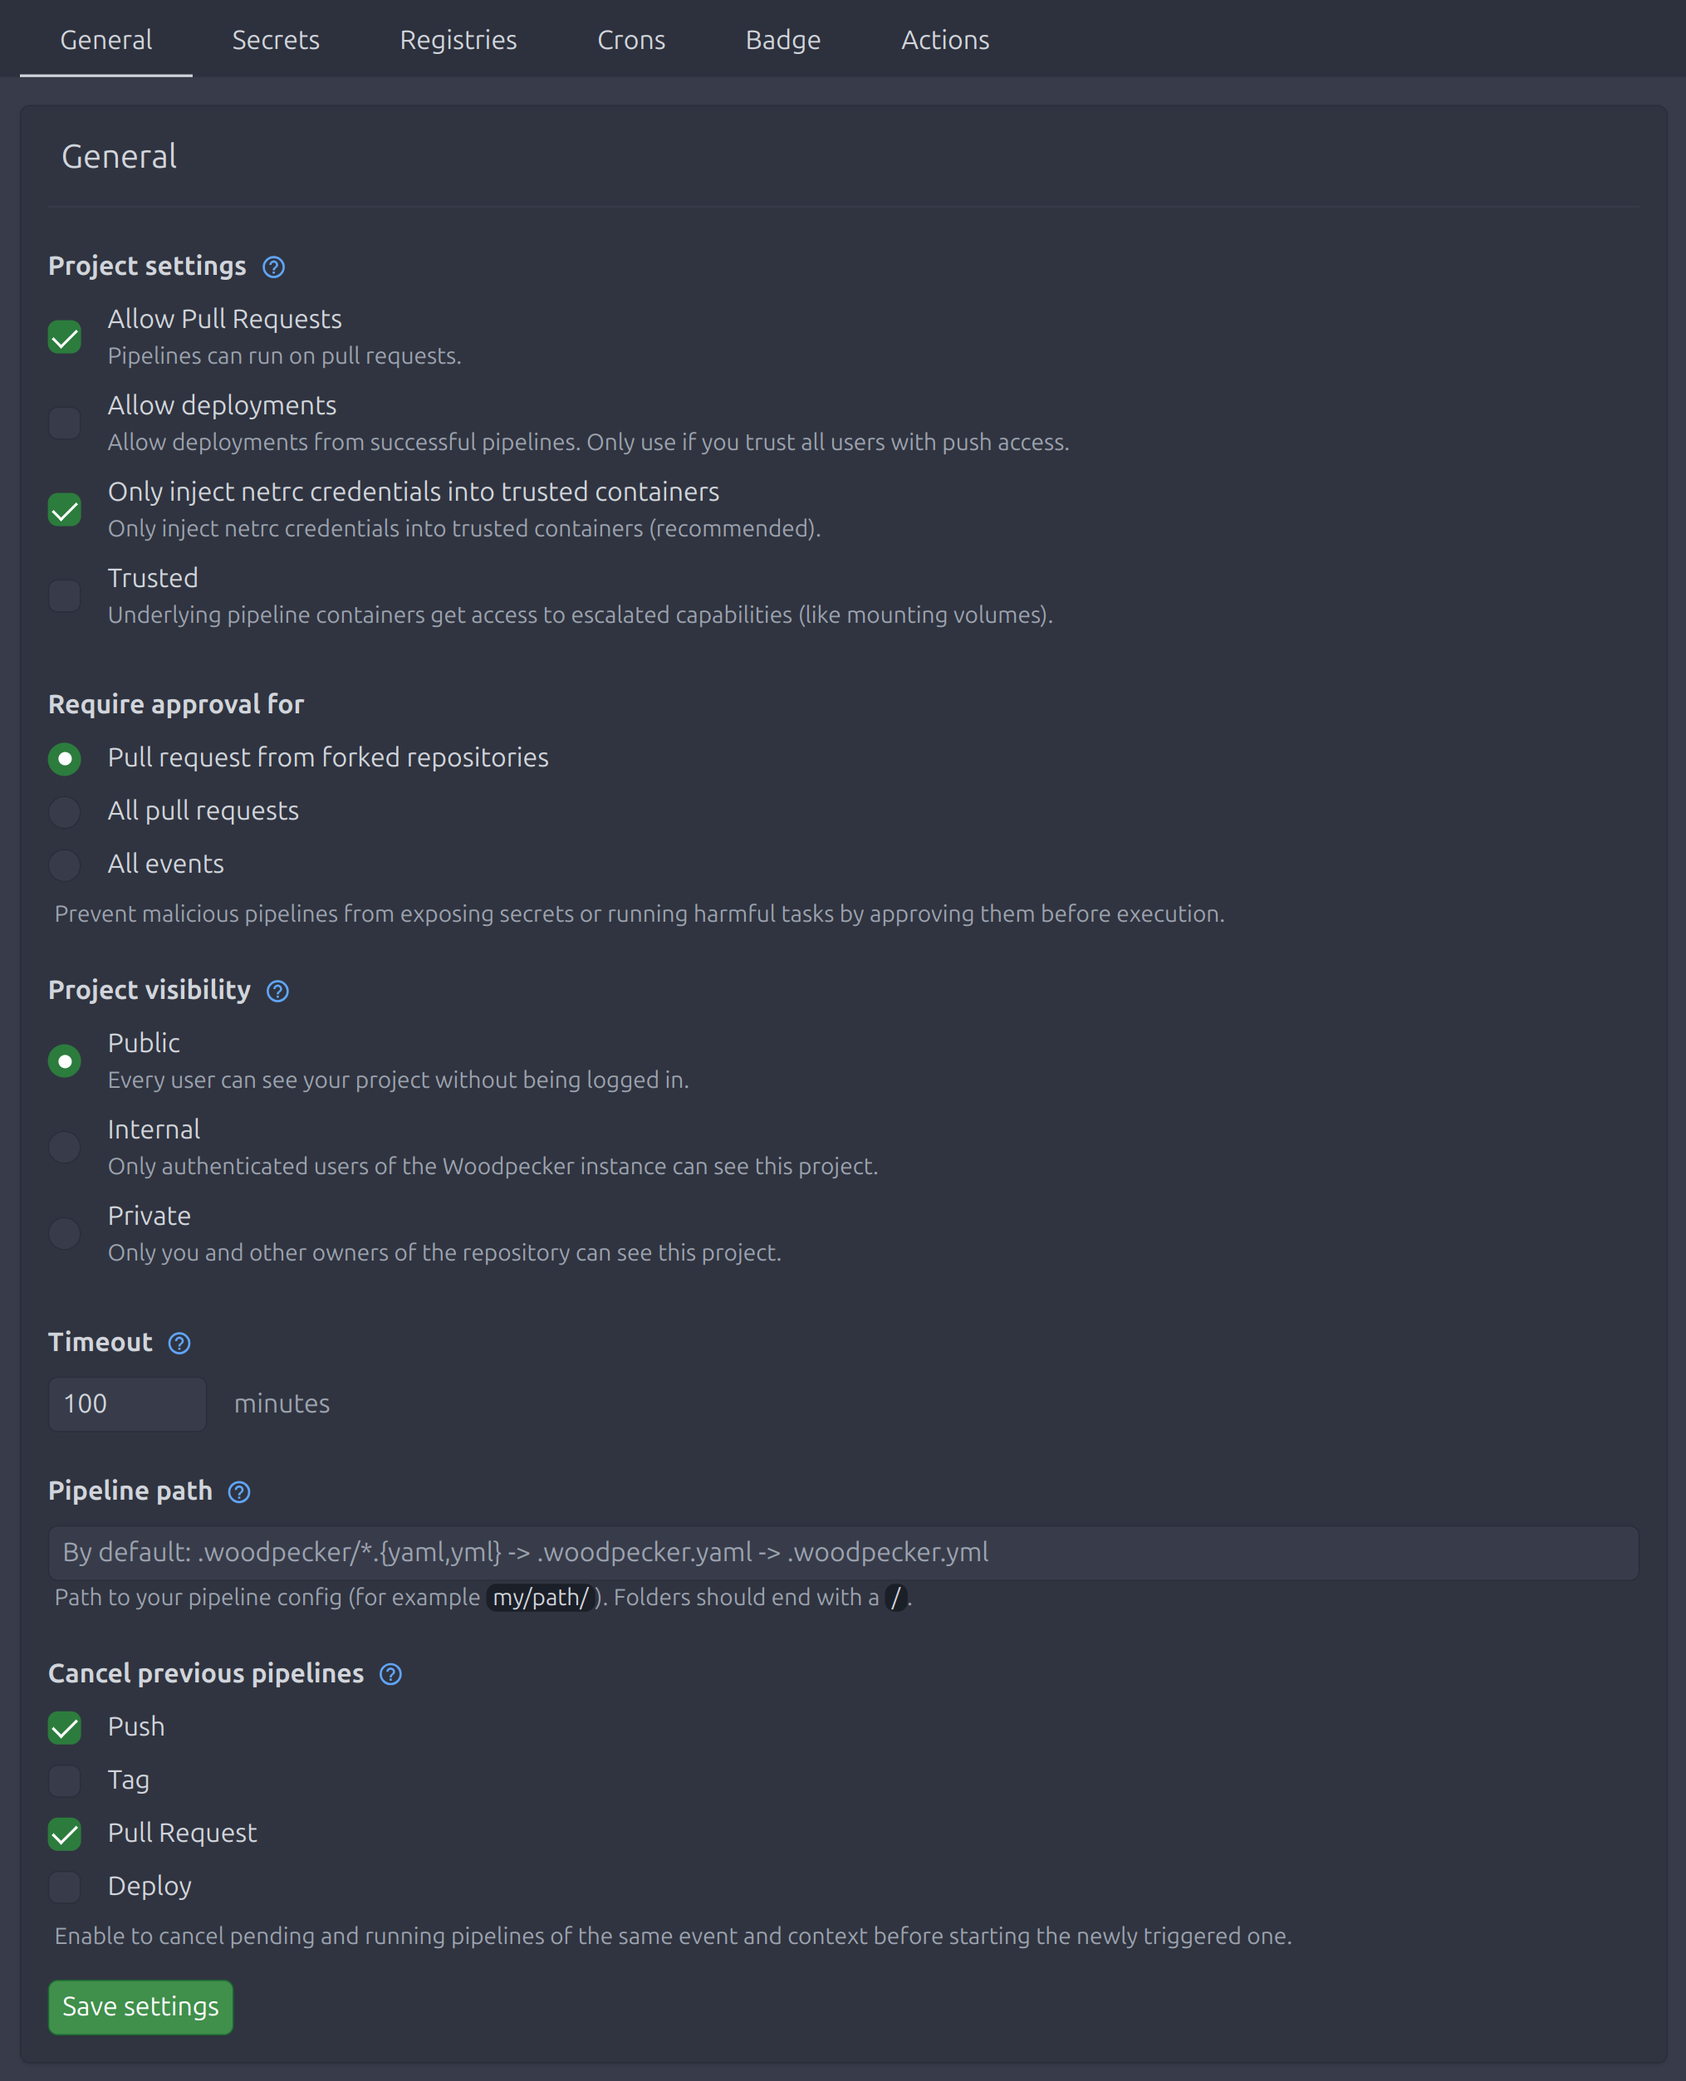
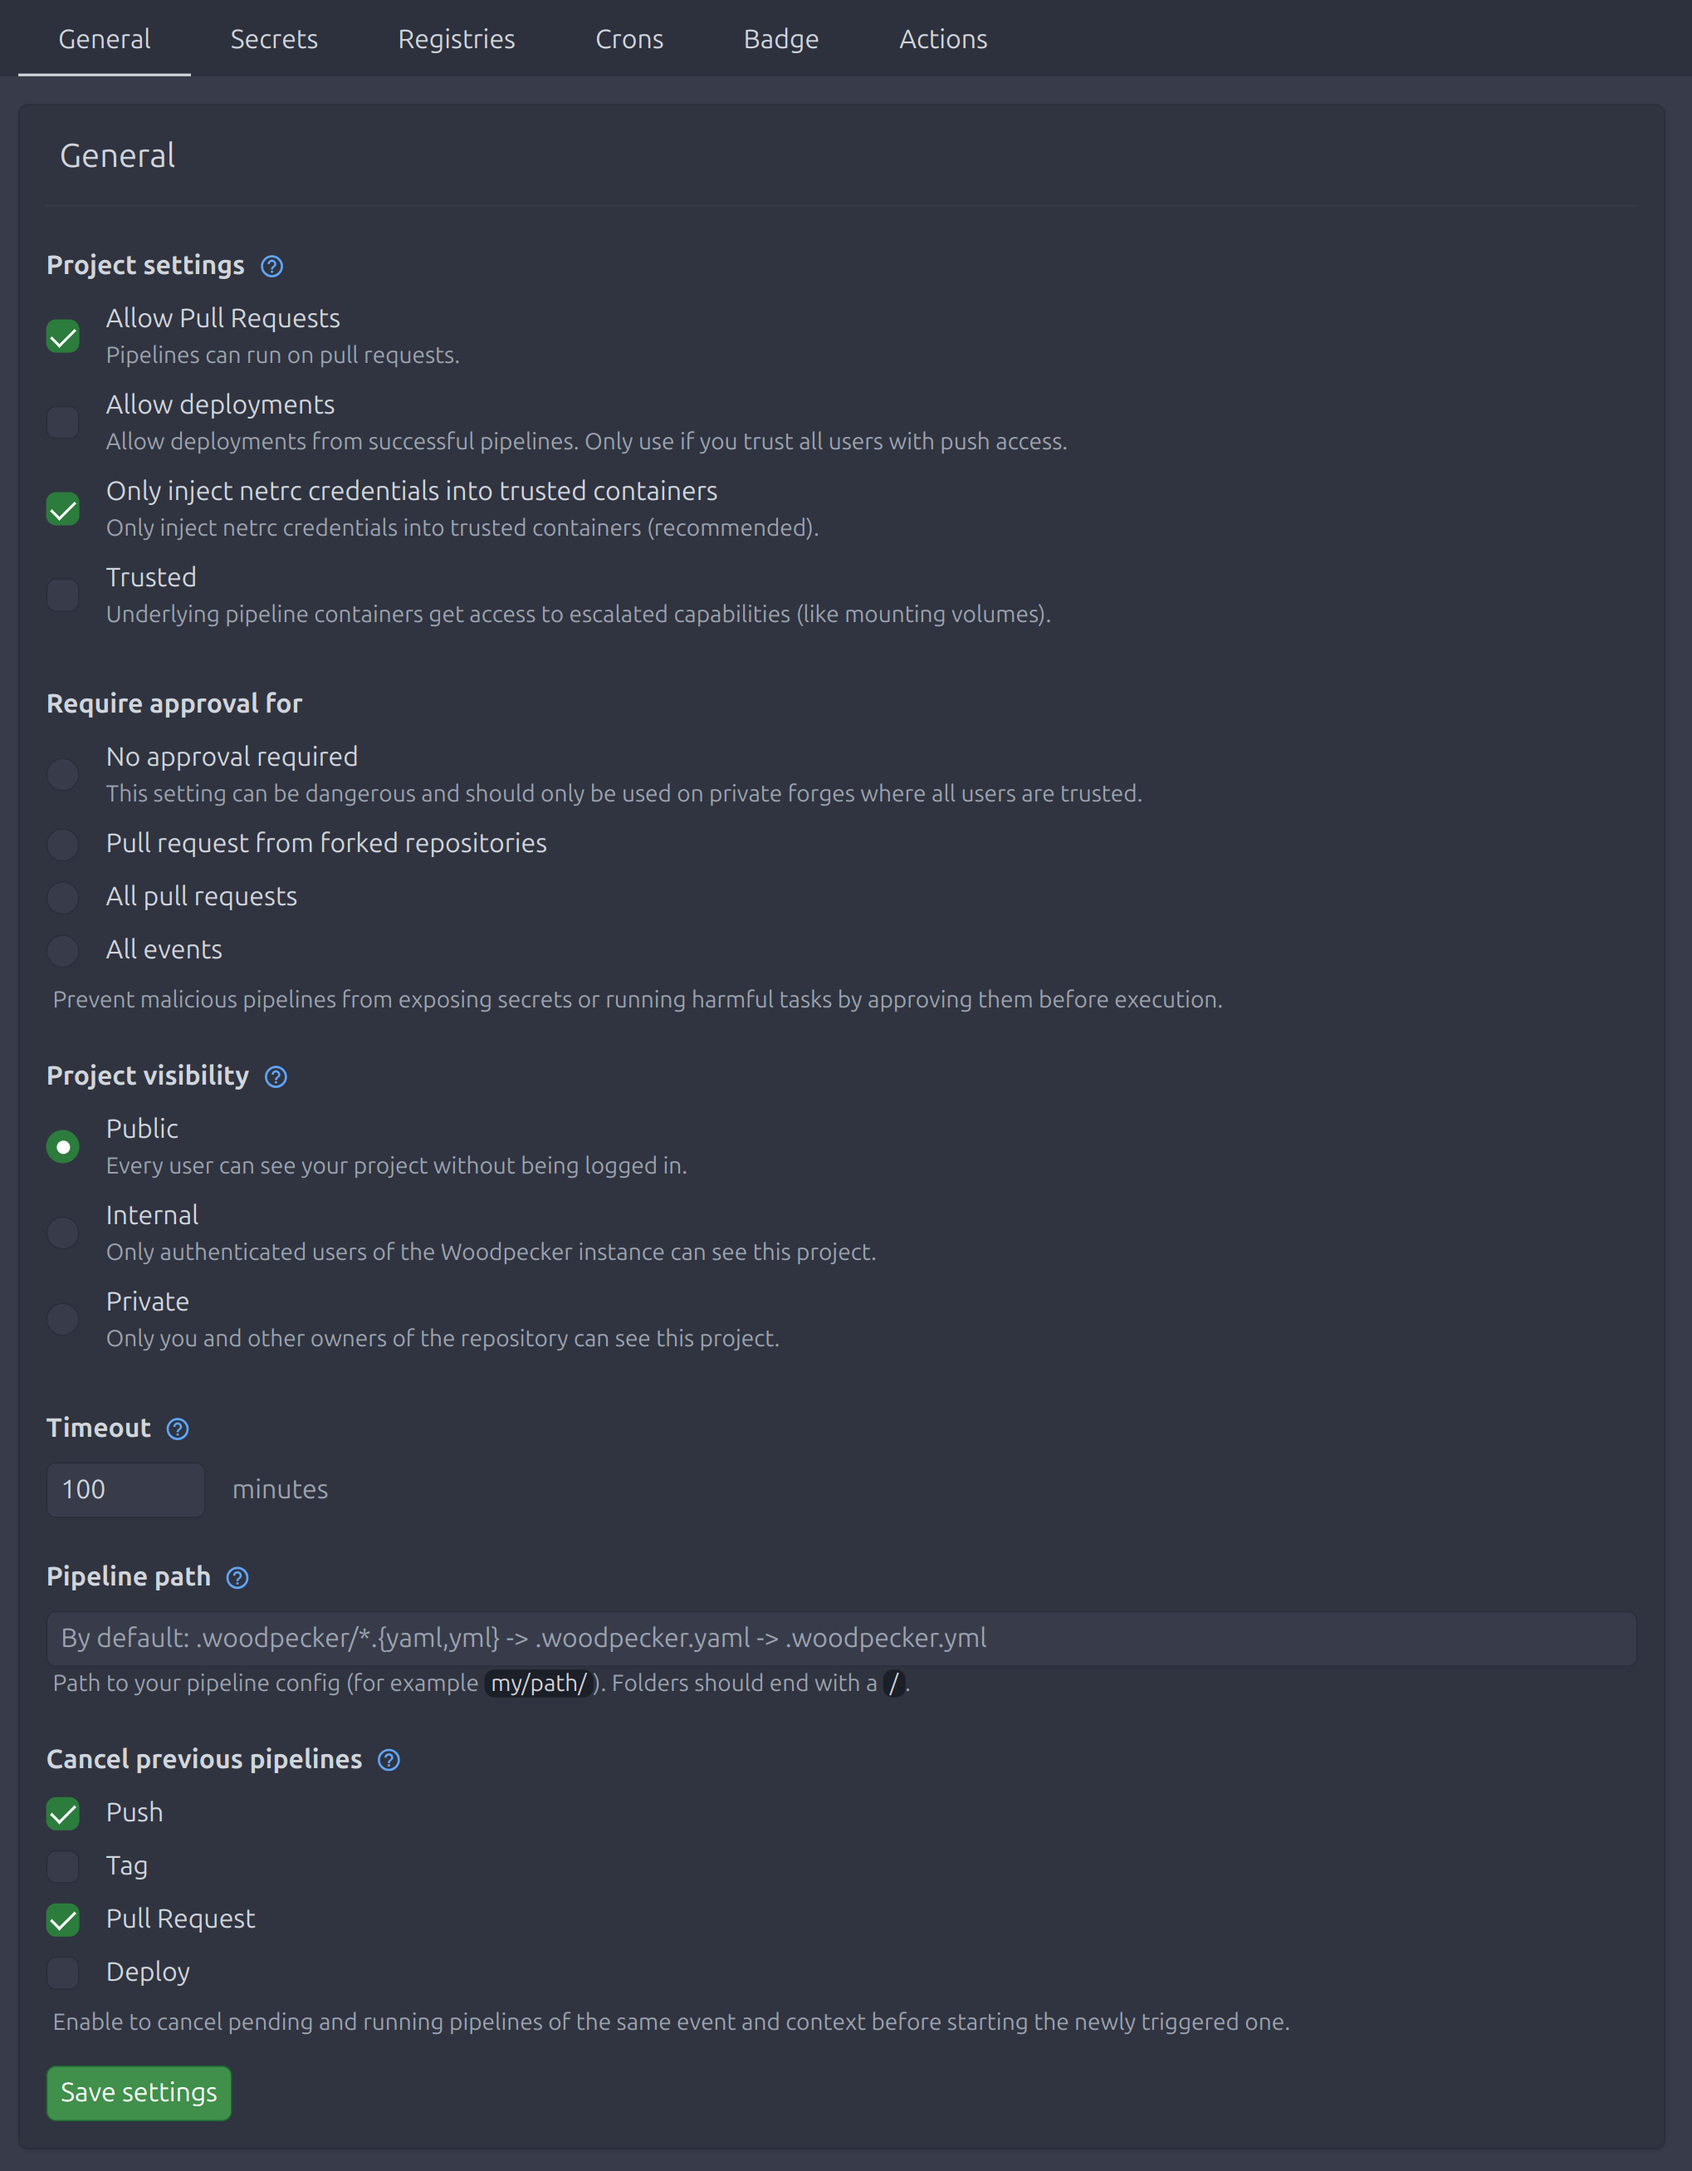
address review, add additional mode

diff --git a/web/src/components/repo/settings/GeneralTab.vue b/web/src/components/repo/settings/GeneralTab.vue
@@ -33,6 +33,11 @@
           v-model="repoSettings.require_approval"
           :options="[
             {
+              value: RepoRequireApproval.None,
+              text: $t('require_approval.none'),
+              description: $t('require_approval.none_desc'),
+            },
+            {
               value: RepoRequireApproval.Forks,
               text: $t('require_approval.forks'),
             },

diff --git a/web/src/lib/api/types/repo.ts b/web/src/lib/api/types/repo.ts
@@ -83,6 +83,7 @@ export enum RepoVisibility {
 }
 
 export enum RepoRequireApproval {
+  None = 'none',
   Forks = 'forks',
   PullRequests = 'pull_requests',
   AllEvents = 'all_events',

diff --git a/woodpecker-go/woodpecker/types.go b/woodpecker-go/woodpecker/types.go
@@ -14,6 +14,15 @@
 
 package woodpecker
 
+type ApprovalMode string
+
+var (
+	RequireApprovalNone         ApprovalMode = "none"          // require approval for no events
+	RequireApprovalForks        ApprovalMode = "forks"         // require approval for PRs from forks
+	RequireApprovalPullRequests ApprovalMode = "pull_requests" // require approval for all PRs (default)
+	RequireApprovalAllEvents    ApprovalMode = "all_events"    // require approval for all events
+)
+
 type (
 	// User represents a user account.
 	User struct {
@@ -27,39 +36,39 @@ type (
 
 	// Repo represents a repository.
 	Repo struct {
-		ID                           int64    `json:"id,omitempty"`
-		ForgeRemoteID                string   `json:"forge_remote_id"`
-		Owner                        string   `json:"owner"`
-		Name                         string   `json:"name"`
-		FullName                     string   `json:"full_name"`
-		Avatar                       string   `json:"avatar_url,omitempty"`
-		ForgeURL                     string   `json:"forge_url,omitempty"`
-		Clone                        string   `json:"clone_url,omitempty"`
-		DefaultBranch                string   `json:"default_branch,omitempty"`
-		SCMKind                      string   `json:"scm,omitempty"`
-		Timeout                      int64    `json:"timeout,omitempty"`
-		Visibility                   string   `json:"visibility"`
-		IsSCMPrivate                 bool     `json:"private"`
-		IsTrusted                    bool     `json:"trusted"`
-		IsGated                      bool     `json:"gated,omitempty"` // TODO: remove in next major release
-		RequireApproval              string   `json:"require_approval"`
-		IsActive                     bool     `json:"active"`
-		AllowPullRequests            bool     `json:"allow_pr"`
-		Config                       string   `json:"config_file"`
-		CancelPreviousPipelineEvents []string `json:"cancel_previous_pipeline_events"`
-		NetrcOnlyTrusted             bool     `json:"netrc_only_trusted"`
+		ID                           int64        `json:"id,omitempty"`
+		ForgeRemoteID                string       `json:"forge_remote_id"`
+		Owner                        string       `json:"owner"`
+		Name                         string       `json:"name"`
+		FullName                     string       `json:"full_name"`
+		Avatar                       string       `json:"avatar_url,omitempty"`
+		ForgeURL                     string       `json:"forge_url,omitempty"`
+		Clone                        string       `json:"clone_url,omitempty"`
+		DefaultBranch                string       `json:"default_branch,omitempty"`
+		SCMKind                      string       `json:"scm,omitempty"`
+		Timeout                      int64        `json:"timeout,omitempty"`
+		Visibility                   string       `json:"visibility"`
+		IsSCMPrivate                 bool         `json:"private"`
+		IsTrusted                    bool         `json:"trusted"`
+		IsGated                      bool         `json:"gated,omitempty"` // TODO: remove in next major release
+		RequireApproval              ApprovalMode `json:"require_approval"`
+		IsActive                     bool         `json:"active"`
+		AllowPullRequests            bool         `json:"allow_pr"`
+		Config                       string       `json:"config_file"`
+		CancelPreviousPipelineEvents []string     `json:"cancel_previous_pipeline_events"`
+		NetrcOnlyTrusted             bool         `json:"netrc_only_trusted"`
 	}
 
 	// RepoPatch defines a repository patch request.
 	RepoPatch struct {
-		Config          *string `json:"config_file,omitempty"`
-		IsTrusted       *bool   `json:"trusted,omitempty"`
-		IsGated         *bool   `json:"gated,omitempty"` // TODO: remove in next major release
-		RequireApproval *string `json:"require_approval,omitempty"`
-		Timeout         *int64  `json:"timeout,omitempty"`
-		Visibility      *string `json:"visibility"`
-		AllowPull       *bool   `json:"allow_pr,omitempty"`
-		PipelineCounter *int    `json:"pipeline_counter,omitempty"`
+		Config          *string       `json:"config_file,omitempty"`
+		IsTrusted       *bool         `json:"trusted,omitempty"`
+		IsGated         *bool         `json:"gated,omitempty"` // TODO: remove in next major release
+		RequireApproval *ApprovalMode `json:"require_approval,omitempty"`
+		Timeout         *int64        `json:"timeout,omitempty"`
+		Visibility      *string       `json:"visibility"`
+		AllowPull       *bool         `json:"allow_pr,omitempty"`
+		PipelineCounter *int          `json:"pipeline_counter,omitempty"`
 	}
 
 	PipelineError struct {

diff --git a/cli/repo/repo_update.go b/cli/repo/repo_update.go
@@ -41,7 +41,7 @@ var repoUpdateCmd = &cli.Command{
 		},
 		&cli.StringFlag{
 			Name:  "require-approval",
-			Usage: "repository require approval",
+			Usage: "repository requires approval for",
 		},
 		&cli.DurationFlag{
 			Name:  "timeout",
@@ -95,26 +95,25 @@ func repoUpdate(ctx context.Context, c *cli.Command) error {
 	// TODO: remove isGated in next major release
 	if c.IsSet("gated") {
 		if gated {
-			allEvents := "all_events"
-			patch.RequireApproval = &allEvents
+			patch.RequireApproval = &woodpecker.RequireApprovalAllEvents
 		} else {
-			forks := "forks"
-			patch.RequireApproval = &forks
+			patch.RequireApproval = &woodpecker.RequireApprovalForks
 		}
 	}
 	if c.IsSet("require-approval") {
-		switch requireApproval {
-		case "forks", "pull_requests", "all_events":
+		switch woodpecker.ApprovalMode(requireApproval) {
+		case woodpecker.RequireApprovalNone, woodpecker.RequireApprovalForks, woodpecker.RequireApprovalPullRequests, woodpecker.RequireApprovalAllEvents:
+			requireApproval := woodpecker.ApprovalMode(requireApproval)
 			patch.RequireApproval = &requireApproval
 		}
 
 		// TODO: remove isGated in next major release
-		if requireApproval == "all_events" {
+		if requireApproval == string(woodpecker.RequireApprovalAllEvents) {
 			trueBool := true
 			patch.IsGated = &trueBool
 		}
 
-		if requireApproval == "forks" {
+		if requireApproval == string(woodpecker.RequireApprovalForks) {
 			falseBool := false
 			patch.IsGated = &falseBool
 		}

diff --git a/server/api/repo.go b/server/api/repo.go
@@ -239,8 +239,8 @@ func PatchRepo(c *gin.Context) {
 	}
 
 	if in.RequireApproval != nil {
-		switch *in.RequireApproval {
-		case string(model.RequireApprovalForks), string(model.RequireApprovalPullRequests), string(model.RequireApprovalAllEvents):
+		switch model.ApprovalMode(*in.RequireApproval) {
+		case model.RequireApprovalNone, model.RequireApprovalForks, model.RequireApprovalPullRequests, model.RequireApprovalAllEvents:
 			repo.RequireApproval = model.ApprovalMode(*in.RequireApproval)
 		default:
 			c.String(http.StatusBadRequest, "Invalid require-approval setting")

diff --git a/server/model/repo.go b/server/model/repo.go
@@ -23,6 +23,7 @@ import (
 type ApprovalMode string
 
 var (
+	RequireApprovalNone         ApprovalMode = "none"          // require approval for no events
 	RequireApprovalForks        ApprovalMode = "forks"         // require approval for PRs from forks (default)
 	RequireApprovalPullRequests ApprovalMode = "pull_requests" // require approval for all PRs
 	RequireApprovalAllEvents    ApprovalMode = "all_events"    // require approval for all events

diff --git a/server/pipeline/gated.go b/server/pipeline/gated.go
@@ -22,7 +22,12 @@ func setApprovalState(repo *model.Repo, pipeline *model.Pipeline) {
 		return
 	}
 
-	// always require approval for pull requests from forks
+	// allow all events without approval
+	if repo.RequireApproval == model.RequireApprovalNone {
+		return
+	}
+
+	// require approval for pull requests from forks
 	if pipeline.Event == model.EventPull && pipeline.FromFork {
 		pipeline.Status = model.StatusBlocked
 		return
